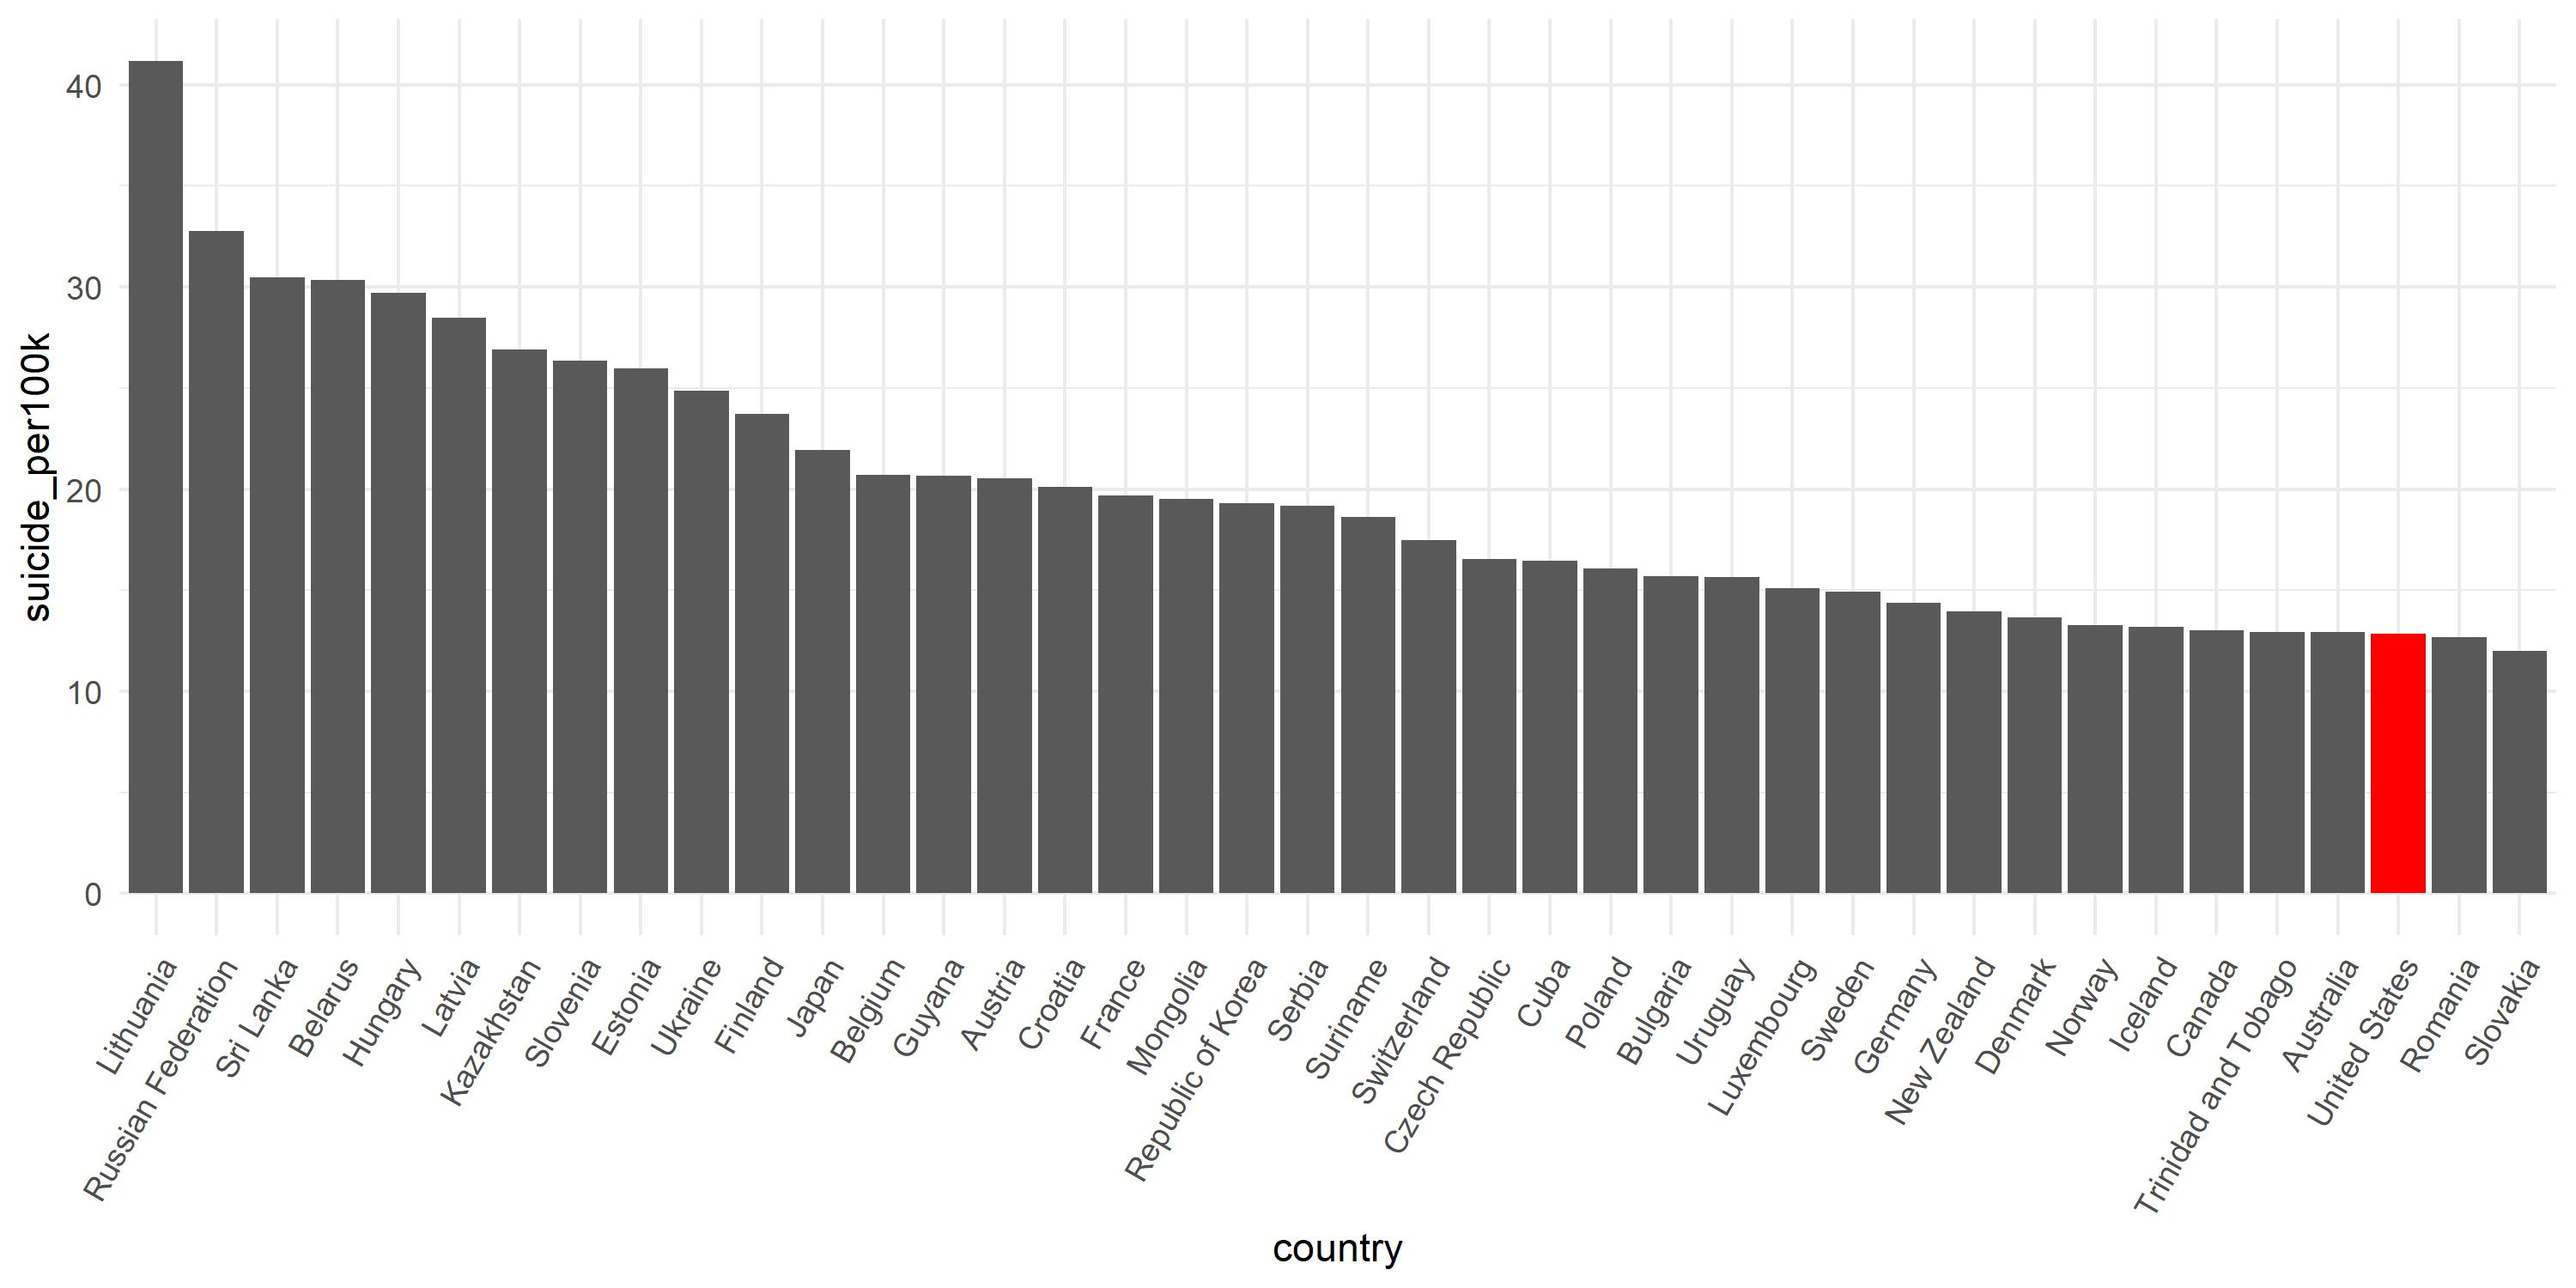
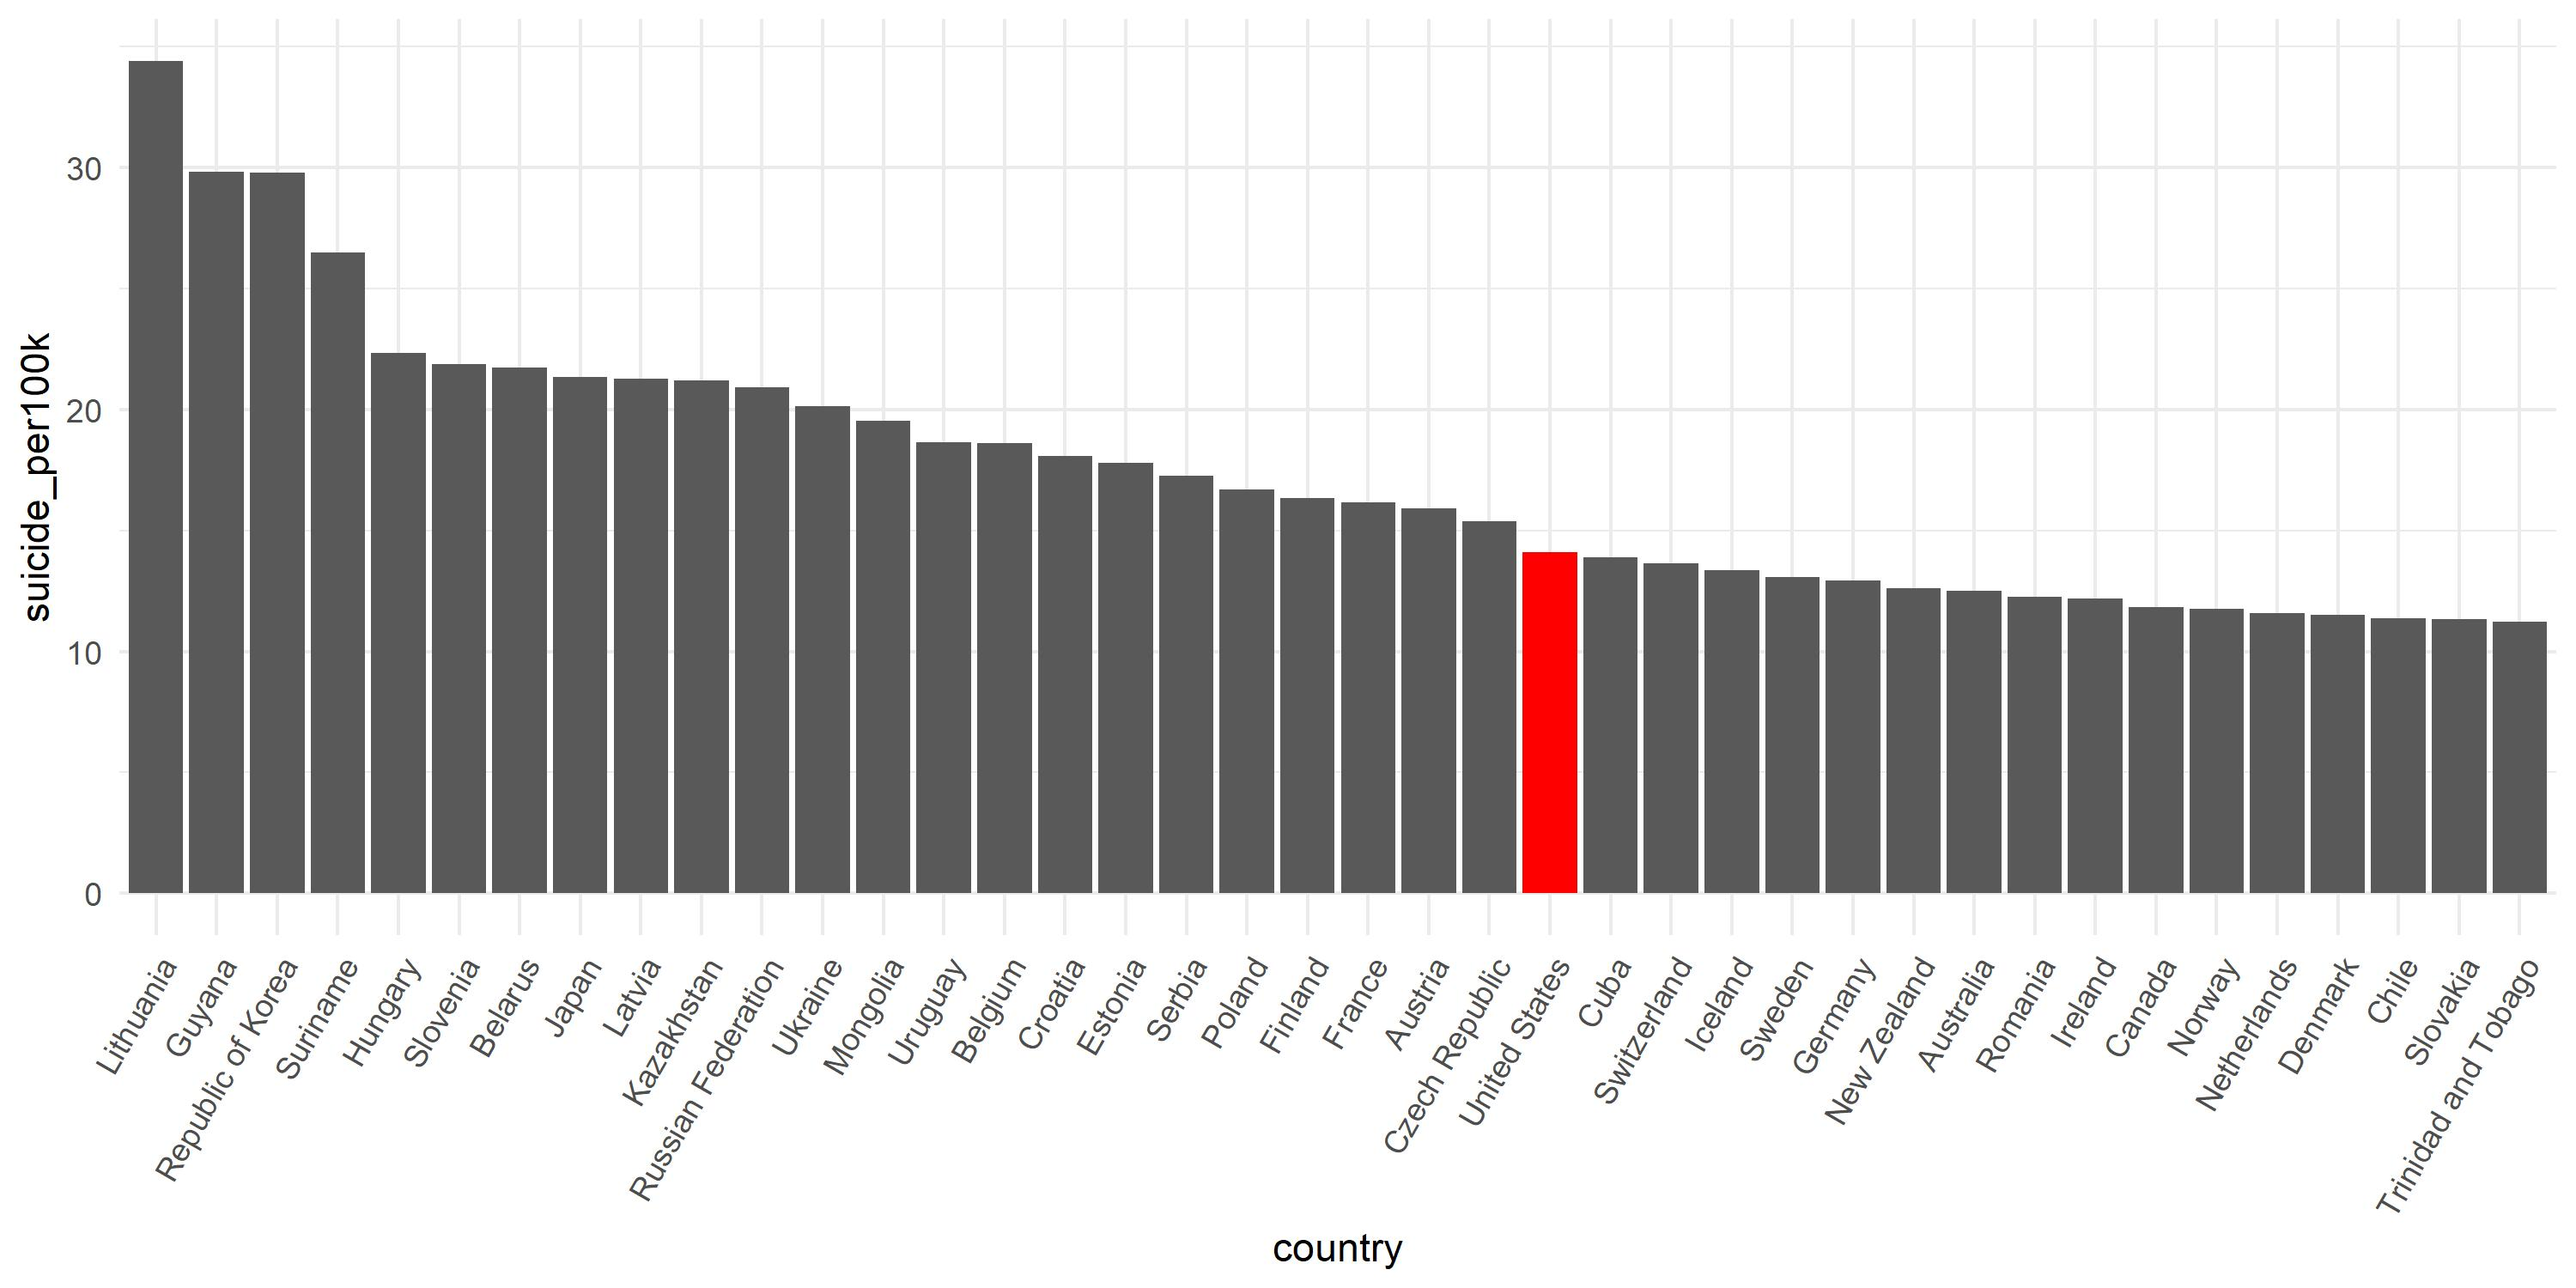
add a fig in world web

diff --git a/world_suicide.html b/world_suicide.html
@@ -463,13 +463,30 @@ The rate in male was about 3 times higher than rate in female
 <i><b>Findings</b></i>
 <ul>
 <li>
-Trend in 15-74 years were largely consistant,
+Trend in 15-74 years were largely consistant.
 </li>
 <li>
-In 75+ age group, the decrease happened all the time, from 30 death per 100k to 21 death per 100k
+In 75+ age group, the decrease happened all the time, from 30 death per 100k to 21 death per 100k.
 </li>
 <li>
-Generally, the 75+ group had highest suicide rate, while 5-14 gae group had lowest rate all the time
+Generally, the 75+ group had highest suicide rate, while 5-14 gae group had lowest rate all the time.
+</li>
+</ul>
+</div>
+<div id="average-suicide-rate-ranking-by-country" class="section level1">
+<h1>Average Suicide Rate Ranking by Country</h1>
+<br> </br>
+<center>
+<img src="sibei/ranking.jpg" style="width:92%">
+</center>
+<p>The bar chart shows top 40 countries with high average suicida rate from 2010-2016</p>
+<i><b>Findings</b></i>
+<ul>
+<li>
+The country with highest suiciate rate is Lithuania, with more than 30 death per 100 k people
+</li>
+<li>
+America ranks around 23th, with around 15 death per 100k people, inciding a not optimistic situation
 </li>
 </ul>
 </div>
